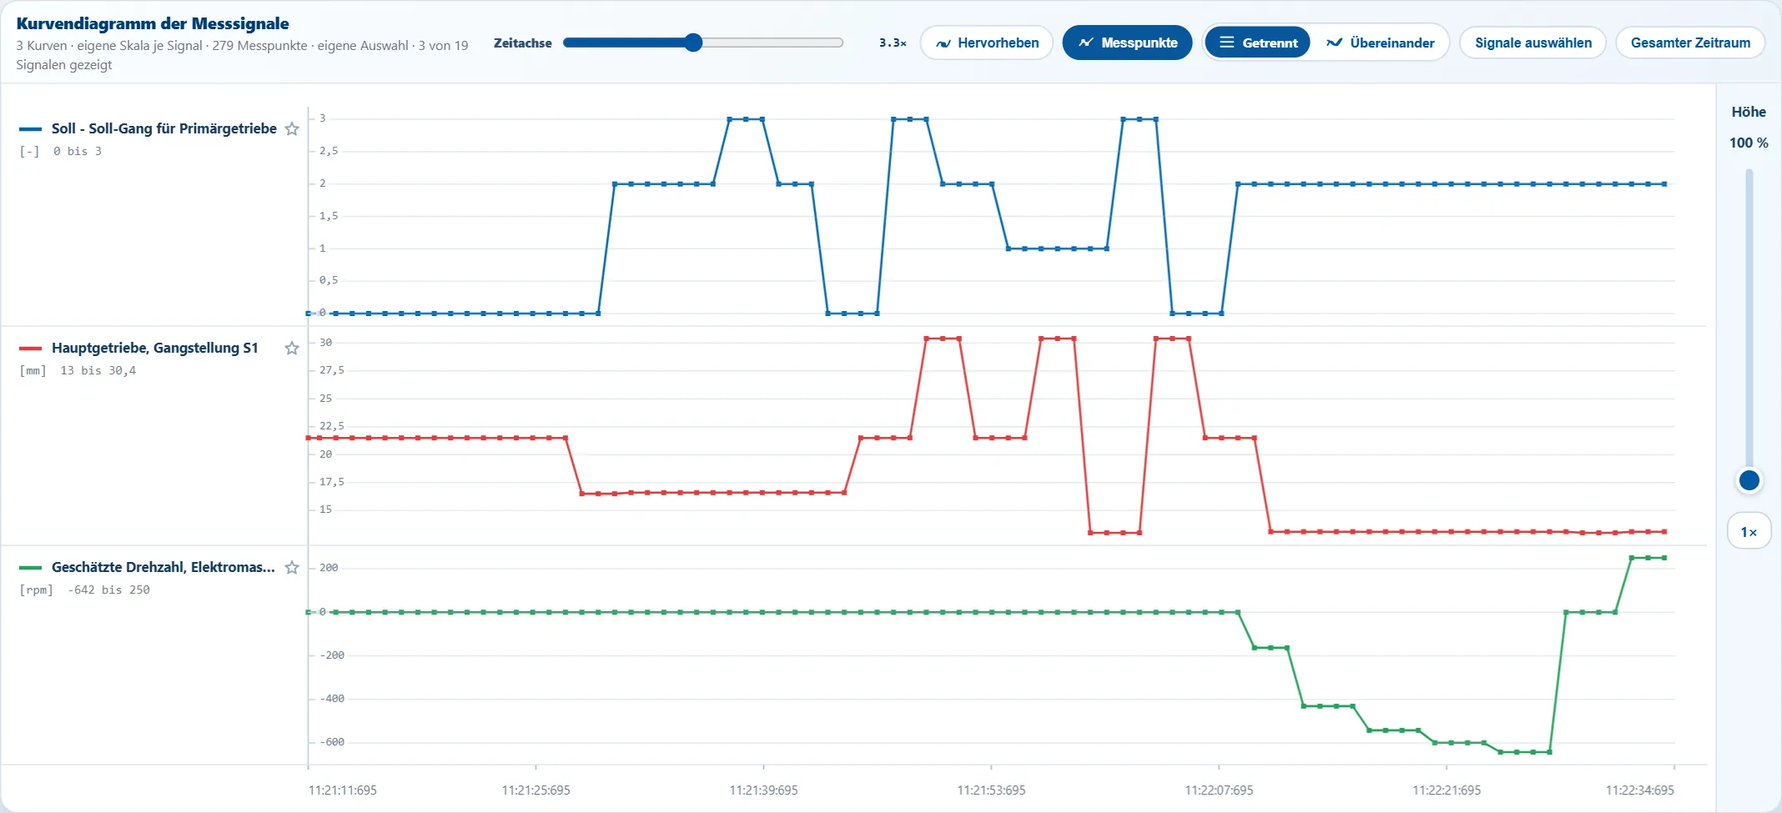
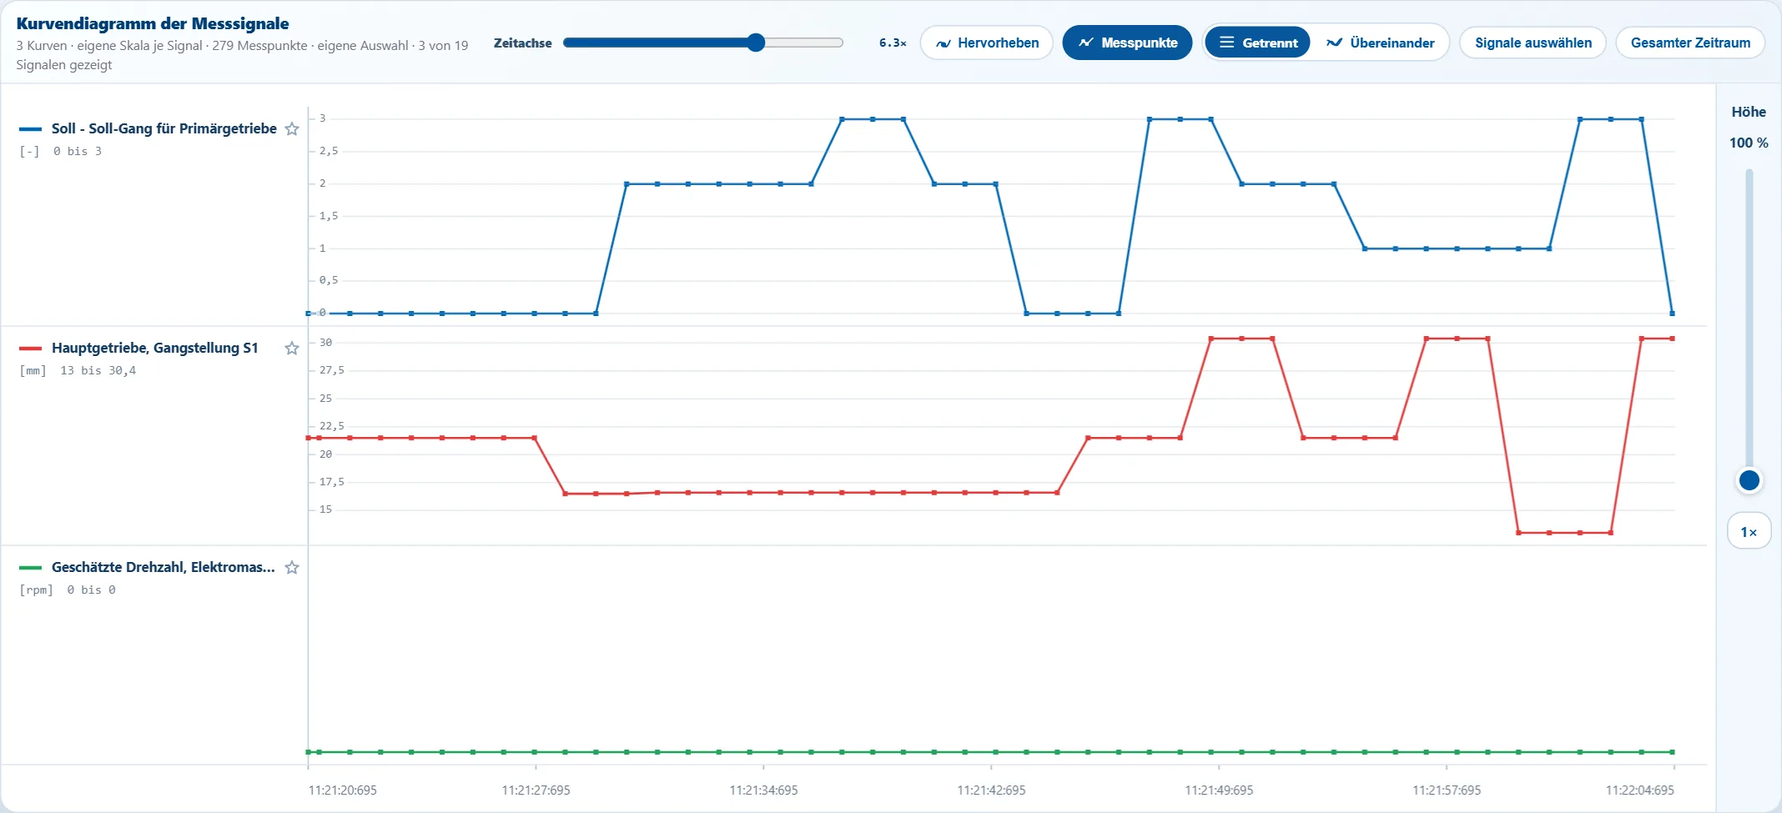
Handbook: sample dots clearly visible, explain that each dot marks a value in the file

diff --git a/assets/help.js b/assets/help.js
@@ -21,8 +21,8 @@ var AppHelp=(function(){
       de:['Tabellenansicht','<p>Die erste Spalte enthält den Zeitstempel, danach folgen alle sichtbaren Signale. Die Tabelle lädt bei großen Dateien nur die gerade benötigten Zeilen und bleibt dadurch flüssig.</p><ul><li>Der Kreis am Zeitstempel setzt oder entfernt einen eigenen Marker in dieser Zeile.</li><li>Das Stiftsymbol öffnet die Notiz zu dieser Zeile.</li><li>Erfassungsmarker erscheinen als nummeriertes Kästchen mit farbigem Rand in der Zeile, in der der Knopf gedrückt wurde.</li><li>Markierte Signalspalten, eigene Marker und Zeiträume haben eigene Hervorhebungen.</li><li>Im Werkzeug <strong>Zeitraum</strong> kannst du auch in der Tabelle mit gedrückter Maustaste Zeilen markieren.</li></ul>'],
       en:['Table view','<p>The first column contains the timestamp, followed by all visible signals. For large files, the table only renders the rows currently needed and stays responsive.</p><ul><li>The circle at the timestamp sets or removes an own marker in that row.</li><li>The pencil icon opens the note for that row.</li><li>Capture markers appear as a numbered badge with a coloured edge in the row where the button was pressed.</li><li>Starred columns, own markers and time ranges have their own highlights.</li><li>With the <strong>Time range</strong> tool you can also drag over rows in the table.</li></ul>']},
     {id:'chart',
-      de:['Kurvendiagramm','<p>Jedes Signal hat eine eigene Spur und Skala; Min und Max stehen links. Die X-Achse verwendet den tatsächlichen Messzeitpunkt, Datenlücken werden nicht künstlich verbunden. Das Diagramm zeigt alle sichtbaren Signale. <strong>Statussignale</strong> mit Textwerten wie „Aktiv“ / „Nicht aktiv“ oder „Bereit“ erscheinen als Stufenkurve: Jeder Zustand ist eine Stufe, die Zustandsnamen stehen am linken Rand der Spur, die Werteanzeige und „Messen A/B“ zeigen den Text. Über die Haken in „Signale auswählen“ blendest du einzelne aus. Jede Spur behält eine lesbare Mindesthöhe; weitere Spuren erreichst du über die Scrollleiste rechts oder das Mausrad über den Signalnamen.</p><ul><li><strong>Signale auswählen:</strong> Liste aller Signale zum An- und Abhaken (Statussignale mit dem Hinweis „Status“), mit Suche. „Alle auswählen“ und „Alle abwählen“ wirken auf die ganze Liste oder bei aktiver Suche nur auf die Treffer – z. B. alles abwählen und dann einzelne Kurven gezielt anhaken.</li><li><strong>Stern neben dem Signalnamen:</strong> hebt das Signal hervor, genau wie der Stern in der Tabelle.</li><li><strong>Getrennt / Übereinander:</strong> legt die ausgewählten Kurven in eine gemeinsame Spur, um Verläufe direkt zu vergleichen. Einzelne Kurven überlagerst du im Auswahlmenü über das Wellen-Symbol.</li><li><strong>Gemeinsame Skala:</strong> überlagerte Kurven mit gleicher Einheit auf denselben Wertebereich legen.</li><li><strong>Hervorheben:</strong> Knopf im Diagrammkopf ein- oder ausschalten. Ist er an, bleibt die Kurve unter dem Mauszeiger auf einem Signalnamen kräftig, alle anderen werden blass. Ein Klick auf den Namen hält die Kurve fest, ein zweiter Klick löst sie wieder. Auswahl, Sterne und Berichte bleiben unverändert.</li><li><strong>Soll/Ist-Paare:</strong> „Signale auswählen“ zeigt erkannte Paare wie „Angeforderter Gang ↔ Eingelegter Gang“ oder „Requested fuel pressure ↔ Fuel pressure“. „Als Paar zeigen“ legt beide in eine eigene Spur mit gemeinsamer Skala. Rot hinterlegt ist, wo Soll und Ist länger als die Mindestdauer (Standard 0,5 s) weiter als die Toleranz auseinanderliegen. „Abweichungen listen“ springt per Klick zu jeder Stelle; Toleranz und Mindestdauer sind einstellbar.</li><li><strong>Zeitachsenregler und Mausrad:</strong> zoomen den Zeitbereich, das Mausrad direkt am Mauszeiger.</li><li><strong>Ziehen oder Umschalt + Mausrad:</strong> vergrößerten Zeitbereich nach links oder rechts verschieben.</li><li><strong>Werteskala und Messpunkte:</strong> jede Spur hat links eine Skala mit feinen Hilfslinien; je höher die Spur, desto feiner die Skala. Mit dem Knopf <strong>Messpunkte</strong> (standardmäßig aus) erscheint beim Hineinzoomen jeder einzelne Messwert als Punkt – so ist klar, wo wirklich gemessen wurde und wo die Linie nur verbindet.</li><li><strong>SWS-Hinweis:</strong> erscheint oben bei Dateien aus dem SWS-Signallogger. SWS speichert eine Zeile pro Sekunde und liest die Signale nacheinander – je mehr Signale, desto seltener kommt pro Signal ein neuer Wert. Der Hinweis zeigt, wie oft in der geladenen Datei tatsächlich neue Werte kamen (gelb ab ca. 2 s).</li><li><strong>Höhe (rechts):</strong> zieht die Spuren vertikal auseinander. Mausrad über dem Regler oder Strg + Mausrad im Diagramm ändert die Höhe ebenfalls.</li><li><strong>Fadenkreuz und Werteanzeige:</strong> das dunkle Infofenster zeigt Zeitstempel und alle Signalwerte. Mit <kbd>T</kbd> + Mausrad (Touchpad: <kbd>T</kbd> + Zwei-Finger-Scrollen) wird es durchsichtiger oder deckender.</li><li><strong>Gesamter Zeitraum:</strong> setzt Zoom und Verschiebung zurück.</li></ul><p class="help-tip"><strong>Wichtig:</strong> Kurze Spitzen bleiben beim Reduzieren großer Datenmengen erhalten. Minimum und Maximum jedes Bildschirmbereichs werden bewusst mitgezeichnet.</p>'],
-      en:['Curve chart','<p>Every signal has its own lane and scale; min and max are shown on the left. The X axis uses the real measurement time; gaps are not artificially connected. The chart shows all visible signals. <strong>Status signals</strong> with text values such as "Active" / "Not active" or "Ready" appear as step curves: each state is one step, the state names are shown on the left edge of the lane, and the value tooltip and "Measure A/B" show the text. Untick single ones in "Choose signals" to hide them. Every lane keeps a readable minimum height; reach further lanes with the scrollbar on the right or the mouse wheel over the signal names.</p><ul><li><strong>Choose signals:</strong> list of all signals to tick, with search (status signals are labelled "State"). "Select all" and "Deselect all" apply to the whole list or, while searching, only to the matches – e.g. deselect everything and then tick single curves.</li><li><strong>Star next to the signal name:</strong> highlights the signal, just like the star in the table.</li><li><strong>Separate / Overlaid:</strong> places the selected curves in one shared lane to compare them directly. Overlay single curves in the picker with the wave icon.</li><li><strong>Shared scale:</strong> puts overlaid curves with the same unit on one value range.</li><li><strong>Highlight:</strong> turn the button in the chart header on or off. While it is on, the curve under the mouse pointer on a signal name stays strong and all others fade. A click on the name keeps the curve highlighted, a second click releases it. Selection, stars and reports stay unchanged.</li><li><strong>Setpoint/actual pairs:</strong> "Choose signals" lists detected pairs such as "Requested fuel pressure ↔ Fuel pressure" or "Angeforderter Gang ↔ Eingelegter Gang". "Show as pair" puts both into their own lane with a shared scale. Shaded red is where setpoint and actual value differ by more than the tolerance for longer than the minimum duration (default 0.5 s). "List deviations" jumps to every spot with one click; tolerance and minimum duration can be adjusted.</li><li><strong>Timeline slider and mouse wheel:</strong> zoom the time range, the wheel directly at the cursor.</li><li><strong>Drag or Shift + wheel:</strong> move the zoomed time range left or right.</li><li><strong>Value scale and samples:</strong> every lane has a scale with fine grid lines on the left; the taller the lane, the finer the scale. With the <strong>Samples</strong> button (off by default), every measured value is shown as a dot when zoomed in – so it is clear where values were really measured and where the line only connects them.</li><li><strong>SWS note:</strong> appears at the top for files from the SWS signal logger. SWS stores one row per second and reads the signals one after another – the more signals, the less often each signal gets a new value. The note shows how often new values really arrived in the loaded file (amber from about 2 s).</li><li><strong>Height (right):</strong> separates the lanes vertically. The mouse wheel over the slider or Ctrl + wheel in the chart changes the height as well.</li><li><strong>Crosshair and value tooltip:</strong> the dark info box shows timestamp and all signal values. <kbd>T</kbd> + wheel (touchpad: <kbd>T</kbd> + two-finger scroll) makes it more transparent or more opaque.</li><li><strong>Full time range:</strong> resets zoom and pan.</li></ul><p class="help-tip"><strong>Important:</strong> Short peaks are preserved when large datasets are reduced. Minimum and maximum in every screen segment are drawn intentionally.</p>']},
+      de:['Kurvendiagramm','<p>Jedes Signal hat eine eigene Spur und Skala; Min und Max stehen links. Die X-Achse verwendet den tatsächlichen Messzeitpunkt, Datenlücken werden nicht künstlich verbunden. Das Diagramm zeigt alle sichtbaren Signale. <strong>Statussignale</strong> mit Textwerten wie „Aktiv“ / „Nicht aktiv“ oder „Bereit“ erscheinen als Stufenkurve: Jeder Zustand ist eine Stufe, die Zustandsnamen stehen am linken Rand der Spur, die Werteanzeige und „Messen A/B“ zeigen den Text. Über die Haken in „Signale auswählen“ blendest du einzelne aus. Jede Spur behält eine lesbare Mindesthöhe; weitere Spuren erreichst du über die Scrollleiste rechts oder das Mausrad über den Signalnamen.</p><ul><li><strong>Signale auswählen:</strong> Liste aller Signale zum An- und Abhaken (Statussignale mit dem Hinweis „Status“), mit Suche. „Alle auswählen“ und „Alle abwählen“ wirken auf die ganze Liste oder bei aktiver Suche nur auf die Treffer – z. B. alles abwählen und dann einzelne Kurven gezielt anhaken.</li><li><strong>Stern neben dem Signalnamen:</strong> hebt das Signal hervor, genau wie der Stern in der Tabelle.</li><li><strong>Getrennt / Übereinander:</strong> legt die ausgewählten Kurven in eine gemeinsame Spur, um Verläufe direkt zu vergleichen. Einzelne Kurven überlagerst du im Auswahlmenü über das Wellen-Symbol.</li><li><strong>Gemeinsame Skala:</strong> überlagerte Kurven mit gleicher Einheit auf denselben Wertebereich legen.</li><li><strong>Hervorheben:</strong> Knopf im Diagrammkopf ein- oder ausschalten. Ist er an, bleibt die Kurve unter dem Mauszeiger auf einem Signalnamen kräftig, alle anderen werden blass. Ein Klick auf den Namen hält die Kurve fest, ein zweiter Klick löst sie wieder. Auswahl, Sterne und Berichte bleiben unverändert.</li><li><strong>Soll/Ist-Paare:</strong> „Signale auswählen“ zeigt erkannte Paare wie „Angeforderter Gang ↔ Eingelegter Gang“ oder „Requested fuel pressure ↔ Fuel pressure“. „Als Paar zeigen“ legt beide in eine eigene Spur mit gemeinsamer Skala. Rot hinterlegt ist, wo Soll und Ist länger als die Mindestdauer (Standard 0,5 s) weiter als die Toleranz auseinanderliegen. „Abweichungen listen“ springt per Klick zu jeder Stelle; Toleranz und Mindestdauer sind einstellbar.</li><li><strong>Zeitachsenregler und Mausrad:</strong> zoomen den Zeitbereich, das Mausrad direkt am Mauszeiger.</li><li><strong>Ziehen oder Umschalt + Mausrad:</strong> vergrößerten Zeitbereich nach links oder rechts verschieben.</li><li><strong>Werteskala und Messpunkte:</strong> jede Spur hat links eine Skala mit feinen Hilfslinien; je höher die Spur, desto feiner die Skala. Ist der Knopf <strong>Messpunkte</strong> (standardmäßig aus) aktiviert, zeigt beim Hineinzoomen jeder Punkt, wann ein Wert des Signals in der Datei steht – so ist klar, wo wirklich gemessen wurde und wo die Linie nur verbindet.</li><li><strong>SWS-Hinweis:</strong> erscheint oben bei Dateien aus dem SWS-Signallogger. SWS speichert eine Zeile pro Sekunde und liest die Signale nacheinander – je mehr Signale, desto seltener kommt pro Signal ein neuer Wert. Der Hinweis zeigt, wie oft in der geladenen Datei tatsächlich neue Werte kamen (gelb ab ca. 2 s).</li><li><strong>Höhe (rechts):</strong> zieht die Spuren vertikal auseinander. Mausrad über dem Regler oder Strg + Mausrad im Diagramm ändert die Höhe ebenfalls.</li><li><strong>Fadenkreuz und Werteanzeige:</strong> das dunkle Infofenster zeigt Zeitstempel und alle Signalwerte. Mit <kbd>T</kbd> + Mausrad (Touchpad: <kbd>T</kbd> + Zwei-Finger-Scrollen) wird es durchsichtiger oder deckender.</li><li><strong>Gesamter Zeitraum:</strong> setzt Zoom und Verschiebung zurück.</li></ul><p class="help-tip"><strong>Wichtig:</strong> Kurze Spitzen bleiben beim Reduzieren großer Datenmengen erhalten. Minimum und Maximum jedes Bildschirmbereichs werden bewusst mitgezeichnet.</p>'],
+      en:['Curve chart','<p>Every signal has its own lane and scale; min and max are shown on the left. The X axis uses the real measurement time; gaps are not artificially connected. The chart shows all visible signals. <strong>Status signals</strong> with text values such as "Active" / "Not active" or "Ready" appear as step curves: each state is one step, the state names are shown on the left edge of the lane, and the value tooltip and "Measure A/B" show the text. Untick single ones in "Choose signals" to hide them. Every lane keeps a readable minimum height; reach further lanes with the scrollbar on the right or the mouse wheel over the signal names.</p><ul><li><strong>Choose signals:</strong> list of all signals to tick, with search (status signals are labelled "State"). "Select all" and "Deselect all" apply to the whole list or, while searching, only to the matches – e.g. deselect everything and then tick single curves.</li><li><strong>Star next to the signal name:</strong> highlights the signal, just like the star in the table.</li><li><strong>Separate / Overlaid:</strong> places the selected curves in one shared lane to compare them directly. Overlay single curves in the picker with the wave icon.</li><li><strong>Shared scale:</strong> puts overlaid curves with the same unit on one value range.</li><li><strong>Highlight:</strong> turn the button in the chart header on or off. While it is on, the curve under the mouse pointer on a signal name stays strong and all others fade. A click on the name keeps the curve highlighted, a second click releases it. Selection, stars and reports stay unchanged.</li><li><strong>Setpoint/actual pairs:</strong> "Choose signals" lists detected pairs such as "Requested fuel pressure ↔ Fuel pressure" or "Angeforderter Gang ↔ Eingelegter Gang". "Show as pair" puts both into their own lane with a shared scale. Shaded red is where setpoint and actual value differ by more than the tolerance for longer than the minimum duration (default 0.5 s). "List deviations" jumps to every spot with one click; tolerance and minimum duration can be adjusted.</li><li><strong>Timeline slider and mouse wheel:</strong> zoom the time range, the wheel directly at the cursor.</li><li><strong>Drag or Shift + wheel:</strong> move the zoomed time range left or right.</li><li><strong>Value scale and samples:</strong> every lane has a scale with fine grid lines on the left; the taller the lane, the finer the scale. With the <strong>Samples</strong> button (off by default) switched on, every dot shows when a value of the signal is in the file when zoomed in – so it is clear where values were really measured and where the line only connects them.</li><li><strong>SWS note:</strong> appears at the top for files from the SWS signal logger. SWS stores one row per second and reads the signals one after another – the more signals, the less often each signal gets a new value. The note shows how often new values really arrived in the loaded file (amber from about 2 s).</li><li><strong>Height (right):</strong> separates the lanes vertically. The mouse wheel over the slider or Ctrl + wheel in the chart changes the height as well.</li><li><strong>Crosshair and value tooltip:</strong> the dark info box shows timestamp and all signal values. <kbd>T</kbd> + wheel (touchpad: <kbd>T</kbd> + two-finger scroll) makes it more transparent or more opaque.</li><li><strong>Full time range:</strong> resets zoom and pan.</li></ul><p class="help-tip"><strong>Important:</strong> Short peaks are preserved when large datasets are reduced. Minimum and maximum in every screen segment are drawn intentionally.</p>']},
     {id:'toolbox',
       de:['Werkzeugleiste','<ul><li><strong>Navigieren:</strong> Ziehen verschiebt den Zeitstrahl, ein Klick wählt einen Messpunkt für eine Notiz.</li><li><strong>Marker:</strong> Klick setzt einen eigenen Marker, Klick auf einen vorhandenen Marker entfernt ihn.</li><li><strong>Zeitraum:</strong> mit gedrückter Maustaste einen Bereich ziehen.</li><li><strong>Messen:</strong> erster Klick setzt Cursor A, zweiter Klick Cursor B. Ein Fenster zeigt Δt sowie für jede Kurve den Wert an A, an B und die Differenz. Cursor lassen sich ziehen, das Fenster an seiner Titelleiste verschieben. „Als Notiz übernehmen“ speichert A–B als markierten Zeitraum mit allen Werten, damit die Messung auch in PDF und Excel erscheint. <kbd>Esc</kbd> entfernt die Cursor.</li><li><strong>Farbe und Dicke:</strong> gelten für neue Marker beziehungsweise Zeiträume. Jedes Werkzeug merkt sich seine eigene Farbe. Ist im Modus Navigieren ein Marker oder Zeitraum ausgewählt, ändern Farbe und Dicke genau diesen.</li><li><strong>Erfassungsmarker:</strong> die Knopfdrücke aus der Signalerfassung. Die Zahl zeigt, wie oft gedrückt wurde. Der Button blendet sie ein und aus, daneben wählst du ihre Farbe, die Pfeile springen zum vorherigen oder nächsten Marker.</li><li><strong>Rückgängig / Wiederholen:</strong> macht Marker, Zeiträume, Notizen, Farben und Löschungen Schritt für Schritt rückgängig (Strg+Z / Strg+Y).</li></ul><p>Überlappende Zeiträume liegen durchscheinend übereinander, beide Farben bleiben sichtbar.</p><p class="help-tip">Erfassungsmarker und eigene Marker sind getrennt: Ein- und Ausblenden der Erfassungsmarker verändert niemals deine eigenen Markierungen.</p>'],
       en:['Toolbar','<ul><li><strong>Navigate:</strong> dragging pans the timeline, a click selects a measurement point for a note.</li><li><strong>Marker:</strong> a click sets an own marker, a click on an existing marker removes it.</li><li><strong>Time range:</strong> hold the mouse button and drag a range.</li><li><strong>Measure:</strong> the first click sets cursor A, the second click cursor B. A panel shows Δt and, for every curve, the value at A, at B and the difference. Drag the cursors to move them and move the panel by its title bar. "Save as note" stores A–B as a marked time range with all values, so the measurement also appears in PDF and Excel. <kbd>Esc</kbd> removes the cursors.</li><li><strong>Color and width:</strong> apply to new markers or time ranges. Each tool remembers its own color. If a marker or range is selected in Navigate mode, color and width change exactly that item.</li><li><strong>Capture markers:</strong> the button presses recorded during the signal capture. The number shows how often it was pressed. The button shows or hides them, next to it you choose their color, the arrows jump to the previous or next marker.</li><li><strong>Undo / Redo:</strong> reverts markers, ranges, notes, colors and deletions step by step (Ctrl+Z / Ctrl+Y).</li></ul><p>Overlapping time ranges are layered translucently, both colours stay visible.</p><p class="help-tip">Capture markers and own markers are separate: showing or hiding capture markers never changes your own markings.</p>']},

diff --git a/handbuch.html b/handbuch.html
@@ -248,14 +248,16 @@ kbd{display:inline-block;min-width:22px;padding:2px 7px;border:1px solid #b8cde0
       <h3 id="samples"><span data-lang="de">Werteskala &amp; Messpunkte</span><span data-lang="en">Value scale &amp; samples</span></h3>
       <div data-lang="de">
         <p>Jede Zahlenspur hat links eine <strong>Werteskala mit feinen Hilfslinien</strong>. Je höher die Spuren (Regler „Höhe“), desto feiner die Skala – so lässt sich z. B. ablesen, dass eine Schaltmuffe bei 16,6 mm stehen bleibt.</p>
-        <p>Der Knopf <strong>Messpunkte</strong> im Diagrammkopf (standardmäßig aus) zeigt beim Hineinzoomen jeden echten Messwert als Punkt. So erkennst du, wo wirklich gemessen wurde und wo die Linie nur zwei Messwerte verbindet – wichtig bei SWS-Dateien, in denen Werte oft nur alle paar Sekunden neu kommen.</p>
+        <p>Der Knopf <strong>Messpunkte</strong> im Diagrammkopf ist standardmäßig aus. <strong>Ist er aktiviert, zeigt beim Hineinzoomen jeder Punkt, wann ein Wert des Signals in der Datei steht.</strong> So siehst du, wo wirklich gemessen wurde und wo die Linie nur zwei Messwerte verbindet.</p>
+        <p class="tip">Bei SWS-Dateien gut zu erkennen: Liegen mehrere Punkte hintereinander auf derselben Höhe und springt der Wert erst dann, kam in dieser Zeit kein neuer Wert vom Steuergerät. Der Abstand zwischen den Sprüngen zeigt, wie oft das Signal wirklich aktualisiert wurde (bei ca. 20 Signalen etwa alle 4 s).</p>
       </div>
       <div data-lang="en">
         <p>Every numeric lane has a <strong>value scale with fine grid lines</strong> on the left. The taller the lanes ("Height" slider), the finer the scale – for example you can read that a shift sleeve stops at 16.6 mm.</p>
-        <p>The <strong>Samples</strong> button in the chart header (off by default) shows every real measured value as a dot when zoomed in. You can see where values were really measured and where the line only connects two values – important for SWS files, where values often only arrive every few seconds.</p>
+        <p>The <strong>Samples</strong> button in the chart header is off by default. <strong>When it is switched on and you zoom in, every dot shows when a value of the signal is in the file.</strong> You can see where values were really measured and where the line only connects two values.</p>
+        <p class="tip">Easy to see in SWS files: if several dots in a row sit at the same height and the value only jumps afterwards, no new value came from the ECU in that time. The distance between the jumps shows how often the signal was really updated (about every 4 s with about 20 signals).</p>
       </div>
       <figure><a href="handbuch/de-points.webp" data-lang="de" target="_blank"><img src="handbuch/de-points.webp" alt="Werteskala und Messpunkte" loading="lazy"></a><a href="handbuch/en-points.webp" data-lang="en" target="_blank"><img src="handbuch/en-points.webp" alt="Value scale and sample dots" loading="lazy"></a>
-        <figcaption><span data-lang="de">Hineingezoomt mit Messpunkten: Soll-Gang 2 ist angefordert, die Muffe bleibt bei 16,6 mm stehen.</span><span data-lang="en">Zoomed in with samples: target gear 2 is requested, the sleeve stops at 16.6 mm.</span></figcaption></figure>
+        <figcaption><span data-lang="de">Messpunkte an: Jeder Punkt ist ein Wert aus der Datei. Soll-Gang 2 ist angefordert, die Muffe bleibt bei 16,6 mm stehen; die Werte springen nur alle paar Punkte.</span><span data-lang="en">Samples on: every dot is a value from the file. Target gear 2 is requested, the sleeve stops at 16.6 mm; the values only jump every few dots.</span></figcaption></figure>
       <h3 id="sws-note"><span data-lang="de">SWS-Hinweis</span><span data-lang="en">SWS note</span></h3>
       <div data-lang="de">
         <p>Bei Dateien aus dem <strong>SWS-Signallogger</strong> erscheint in der Ansichtsleiste der Knopf <strong>SWS-Hinweis</strong> (gelb, wenn die Werte seltener als etwa alle 1,5 s kommen). Er erklärt:</p>
@@ -268,7 +270,7 @@ kbd{display:inline-block;min-width:22px;padding:2px 7px;border:1px solid #b8cde0
         <p class="note">SDP3 files are not affected (about every 0.1 s there). As soon as Scania makes the sample rate adjustable in SWS, the tool will be developed further accordingly.</p>
       </div>
       <figure><a href="handbuch/de-sws-note.webp" data-lang="de" target="_blank"><img src="handbuch/de-sws-note.webp" alt="SWS-Hinweis mit gemessener Abtastrate" loading="lazy"></a><a href="handbuch/en-sws-note.webp" data-lang="en" target="_blank"><img src="handbuch/en-sws-note.webp" alt="SWS note with measured sample rate" loading="lazy"></a>
-        <figcaption><span data-lang="de">SWS-Hinweis: 19 Signale – neuer Wert je Signal ca. alle 4 s.</span><span data-lang="en">SWS note: 19 signals – new value per signal about every 4 s.</span></figcaption></figure>
+        <figcaption><span data-lang="de">SWS-Hinweis: 19 Signale – neuer Wert je Signal ca. alle 4 s. Im Hintergrund die Messpunkte.</span><span data-lang="en">SWS note: 19 signals – new value per signal about every 4 s. Sample dots in the background.</span></figcaption></figure>
     </section>
 
     <section class="chapter" id="signals">
